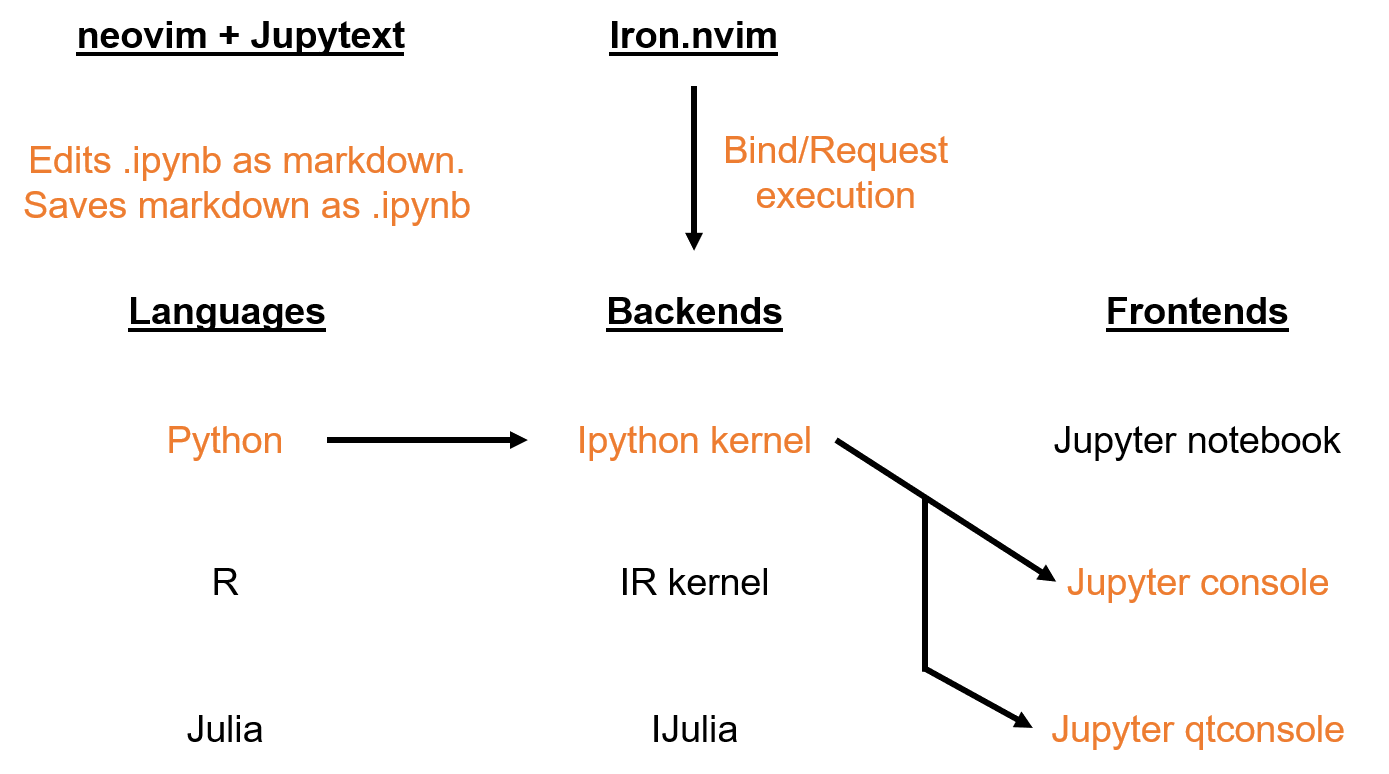
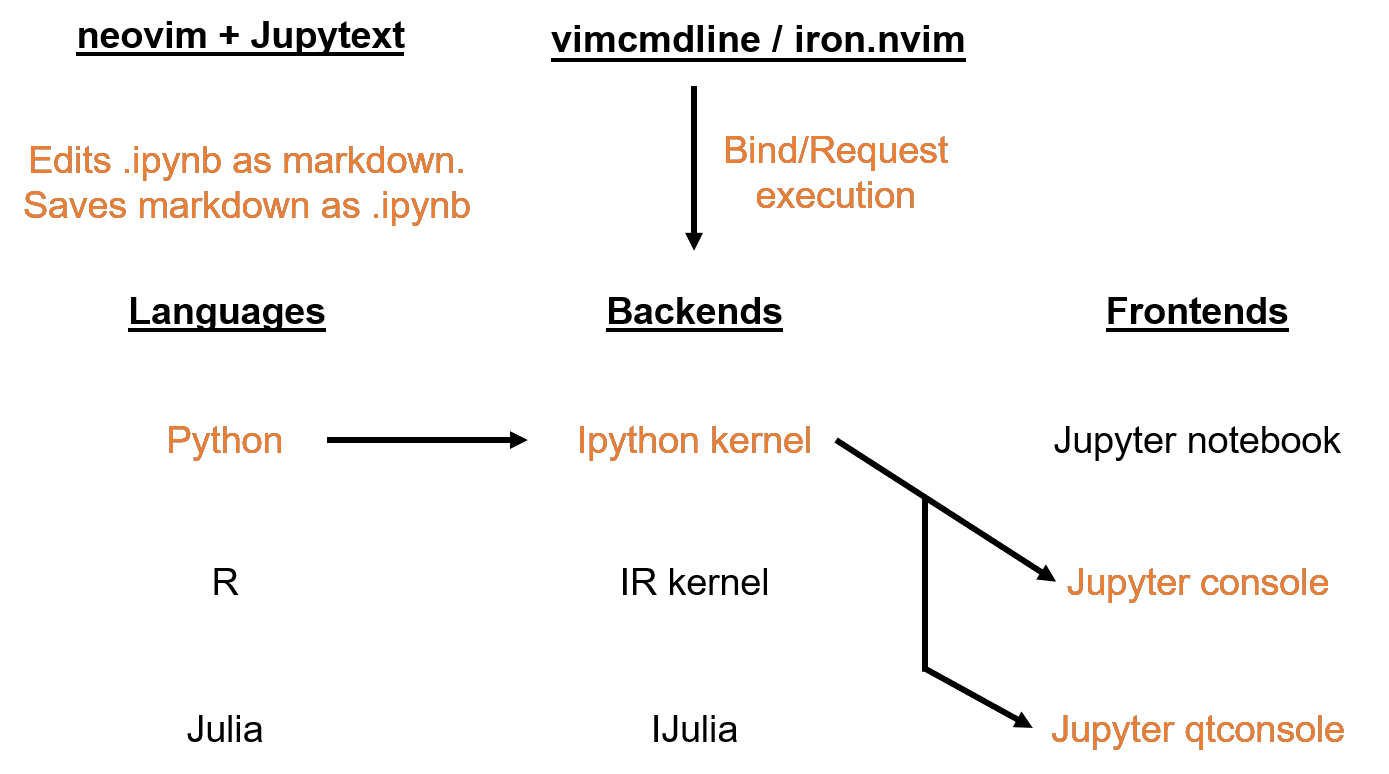
switched from iron.nvim to vimcmdline. updated README, diagram, and all relevant configurations

diff --git a/README.md b/README.md
@@ -9,12 +9,16 @@ SOSODE is a neovim-based development environment for interactive data analysis a
 <img src="./images/diagram_1.png" title="Schematic of SOSODE" width="500"/>
 
 Thanks to the contributors who made the following tools, we can turn vim into a powerful IDE for interactive data analysis:
-+ [neovim](https://neovim.io/)
-+ [iron.nvim](https://github.com/Vigemus/iron.nvim)
++ [neovim (Optional if using vimcmdline)](https://neovim.io/)
++ [vimcmdline (forked from jalvesaq/vimcmdline)](https://github.com/xuesoso/vimcmdline.git)
++ [iron.nvim (Alternative)](https://github.com/Vigemus/iron.nvim)
++ [completor](https://github.com/maralla/completor.vim)
 + [pynvim](https://github.com/neovim/pynvim)
-+ [deoplete](https://github.com/Shougo/deoplete.nvim)
 + [jupytext](https://github.com/mwouts/jupytext)
 
+Updates
+-------
++ 7/11/2019: switched REPL interpreter from iron.nvim to vimcmdline because it seems to play nicer with jupyter-console. Also switched from autocompletor to maralla/completor as it is less buggy.
 
 Installation
 ------------
@@ -24,7 +28,7 @@ git clone https://github.com/xuesoso/SOSODE
 ```
 
 
-First, if you don't have neovim, then install [neovim](https://github.com/neovim/neovim/wiki/Installing-Neovim). It is an improved vim with much more streamlined code base and has added support for Read-Eval-Print-Loop (REPL) functionality that iron.nvim depends on.
+**Optional**: If you don't have neovim, I suggest installing [neovim](https://github.com/neovim/neovim/wiki/Installing-Neovim). It is an improved vim with much more streamlined code base and has added support for Read-Eval-Print-Loop (REPL) functionality that iron.nvim depends on. If you use vimcmdline instead of iron.nvim, you can use either vim 8.0+ or neovim.
 
 ### Summary of neovim installation: 
 
@@ -59,13 +63,13 @@ pip install jupytext pynvim jupyter-console qtconsole
 
 Configuration
 -------------
-We can easily link up your existing vimrc configuration to neovim. Just copy my nvim configuration files over. You can paste and execute the following line in terminal.
+**Optional:** If you installed neovim, we can easily link up your existing vimrc configuration. Just copy my nvim configuration files over. You can paste and execute the following line in terminal.
 
 ```bash
 cp -r .config/* ~/.config
 ```
 
-I modified jupyter console to suppress image output when using the inline magic in jupyter console, that way the images don't clump up your whole screen. Include this in your jupyter folder. We also need to enable remote input to be fed into jupyter-qtconsole.
+I modified jupyter console to suppress image output when using the inline magic in jupyter console, that way the images don't clump up your whole screen. We also need to enable remote input to be fed into jupyter-qtconsole. Run the following bash script in terminal to include to make the relevant changes in jupyter folder. 
 
 ```bash
 mkdir -p ~/.jupyter && cp -r .jupyter/* ~/.jupyter/
@@ -76,7 +80,7 @@ mkdir -p ~/.jupyter && cp -r .jupyter/* ~/.jupyter/
 alias v='nvim -o'
 ```
 
-Finally, to set up the proper plugins you will append my vimrc lines to your own vimrc
+Finally, to set up the proper plugins you will append my vimrc lines to your own vimrc. If you are reinstalling SOSODE, take care to not duplicate lines of vim configurations.
 ```bash
 if [ -e ~/.vimrc ]
 then
@@ -87,7 +91,12 @@ fi
 ```
 
 #### Install all plugins via Vundle
-In nvim, install plugins and run checkhealth
+In vim, install plugins
+```vim
+:PluginInstall<CR>
+```
+
+In nvim, install plugins and also run checkhealth
 ```vim
 :PluginInstall<CR>
 :UpdateRemotePlugins<CR>
@@ -112,11 +121,14 @@ Notebook is automatically converted to an instance of markdown, where cell struc
 Just save as usual in vim (:w<CR>). Jupytext will update the original .ipynb file with changes made in the markdown buffer without altering the outputs in the notebook.
 
 ### Interactive iPython
-#### Execute current line with Alt-d
-By default, pressing Alt-d key will submit the current line of code to an ipython kernel, initiating an instance if it does not yet already exist for your current file. This is done via iron.nvim, and it will automatically detect the current environment you are in.
+#### Initiating the python REPL
+If you are on vimcmdline (default), pressing Leader-s in normal mode will initiate a jupyter-console / ipython kernel. If you are on iron.nvim (alternative), submitting a line of code will automatically initiate an instance if it does not yet already exist for your current file. Both of these REPL plugins should automatically detect the current environment that you are in and point to the correct python.
+
+#### Execute current line with Space
+By default, pressing Space key will submit the current line of code to an ipython kernel.
 
 #### Execute entire cell block with Alt-s
-By default, pressing Alt-s will submit the entire cell block for execution.
+By default, pressing Alt-s will submit the entire cell block for execution encapsulated by cell block markers.
 
 #### Inline plots
 In either your script or jupyter console, you can invoke inline plotting by calling
